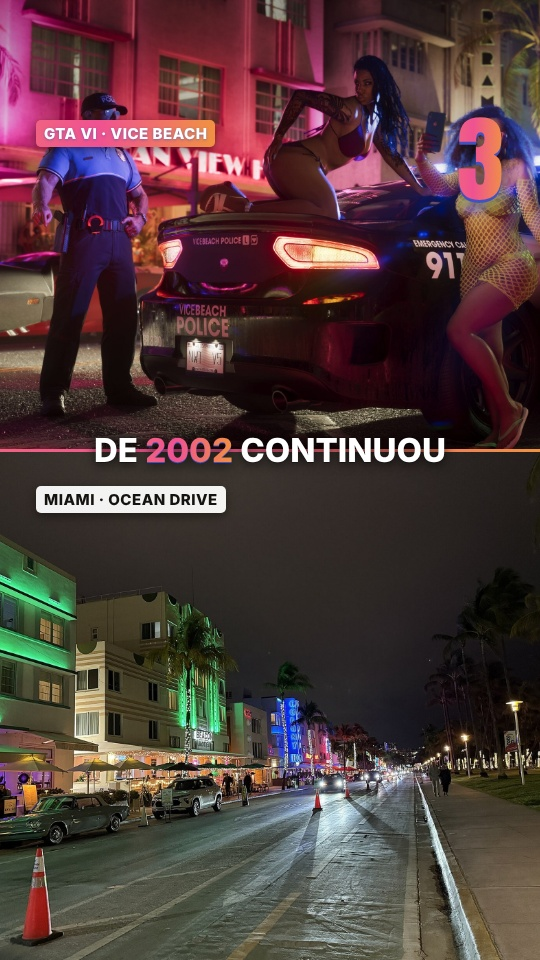
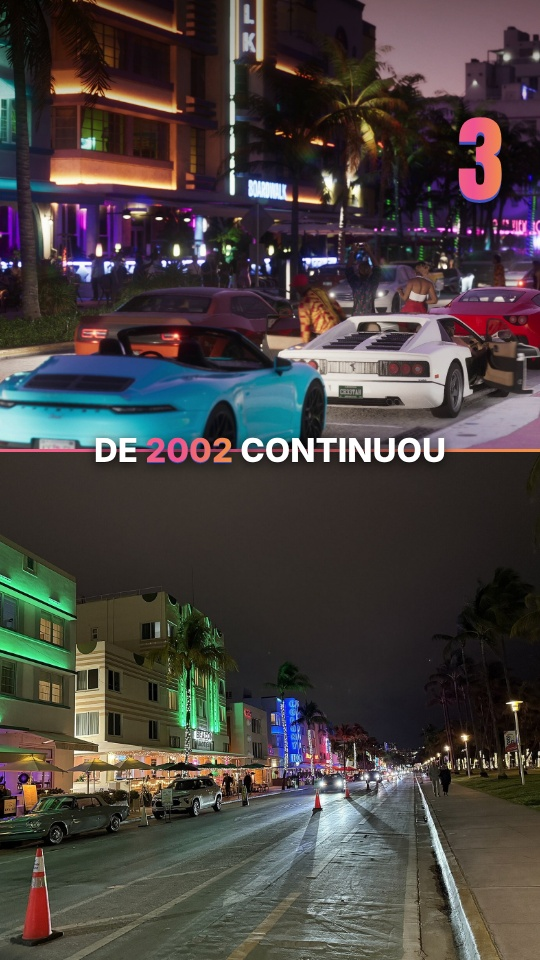
Reel Vice City REV1: luz roxa só no fundo, sem etiquetas jogo/real, Ocean Drive do trailer 1
- aplicar_roxo.py: recorte do Diego (MediaPipe) e luz roxa leve só no fundo
- telas divididas sem etiquetas (pedido do Diego); números 1-2-3 mantidos
- Ocean Drive do jogo: quadro do Trailer 1 (carros na rua), no lugar da cena com polícia
- Colony real noturno com a placa inteira; mixagem sem o swish colado ao impacto do gancho

Claude-Session: https://claude.ai/code/session_01TJN9nwAt63XnG2nEHmn6uq

diff --git a/design-system/remotion/src/reel/GtaViceCity.tsx b/design-system/remotion/src/reel/GtaViceCity.tsx
@@ -4,7 +4,8 @@
  * Pedidos do Diego (05/11/2026):
  *  - ponto turístico = "comparar": Vice City do jogo em cima, Miami de verdade embaixo;
  *  - palavra de ênfase da legenda nas cores do GTA VI (o resto em branco);
- *  - versão B: luz roxa do GTA muito leve só nas gravações do Diego (props.roxo = opacidade; 0 = versão A).
+ *  - luz roxa do GTA muito leve só nas gravações do Diego, em duas versões (quadro inteiro ou só o fundo), aplicada no
+ *    próprio vídeo do Diego por reels/<reel>/revN/aplicar_roxo.py e escolhida em props.diego. props.roxo (sobreposição CSS) fica 0.
  * Render: --public-dir=reels/gta6-vice-city/revN/public --props=reels/gta6-vice-city/revN/public/props.json
  */
 import React from "react";
@@ -41,6 +42,7 @@ export type PropsVice = {
   duracao: number;
   voz: number;
   roxo: number;
+  diego?: string;
   cenas: Cena[];
   legendas: Legenda[];
   gancho: { ini: number; fim: number; linhas: Linha[] }[];
@@ -258,7 +260,7 @@ export const GtaViceCity: React.FC<PropsVice> = (p) => {
       {/* Diego embaixo durante toda a fala (vídeo decupado, em sincronia com a voz) */}
       <Sequence durationInFrames={sq(p.duracao, fps)} layout="none">
         <AbsoluteFill style={{ top: COSTURA, height: H - COSTURA, overflow: "hidden" }}>
-          <OffthreadVideo src={staticFile("diego.mp4")} muted style={{ position: "absolute", top: ROSTO_DESLOC - COSTURA, left: 0, width: W, height: H }} />
+          <OffthreadVideo src={staticFile(p.diego ?? "diego.mp4")} muted style={{ position: "absolute", top: ROSTO_DESLOC - COSTURA, left: 0, width: W, height: H }} />
           <LuzRoxa roxo={p.roxo} />
         </AbsoluteFill>
       </Sequence>
@@ -271,7 +273,7 @@ export const GtaViceCity: React.FC<PropsVice> = (p) => {
               {c.tag_cima && <Tag t={c.tag_cima} jogo x={X0} y={240} em={0.15} />}
             </AbsoluteFill>
           )}
-          {c.tipo === "diego" && <DiegoCheio c={c} roxo={p.roxo} />}
+          {c.tipo === "diego" && <DiegoCheio c={c} roxo={p.roxo} arquivo={p.diego ?? "diego.mp4"} />}
           {c.tipo === "comparar" && <Comparar c={c} />}
           {c.transicao === "dissolve" && i > 0 && <Dissolve anterior={p.cenas[i - 1]} c={c} />}
         </Sequence>
@@ -289,13 +291,13 @@ export const GtaViceCity: React.FC<PropsVice> = (p) => {
 };
 
 /** Diego em tela cheia (plano aberto no sofá), aproximação lenta e linear (100 → 105%). */
-const DiegoCheio: React.FC<{ c: Cena; roxo: number }> = ({ c, roxo }) => {
+const DiegoCheio: React.FC<{ c: Cena; roxo: number; arquivo: string }> = ({ c, roxo, arquivo }) => {
   const f = useCurrentFrame();
   const { fps } = useVideoConfig();
   const z = interpolate(f, [0, (c.fim - c.ini) * fps], [1, 1.05]);
   return (
     <AbsoluteFill style={{ overflow: "hidden" }}>
-      <OffthreadVideo src={staticFile("diego.mp4")} muted startFrom={sq(c.ini, fps)} style={{ width: W, height: H, transform: `scale(${z})` }} />
+      <OffthreadVideo src={staticFile(arquivo)} muted startFrom={sq(c.ini, fps)} style={{ width: W, height: H, transform: `scale(${z})` }} />
       <LuzRoxa roxo={roxo} />
     </AbsoluteFill>
   );

diff --git a/reels/gta6-vice-city/rev1/aplicar_roxo.py b/reels/gta6-vice-city/rev1/aplicar_roxo.py
@@ -1,0 +1,54 @@
+"""Luz roxa do GTA, muito leve, nas gravações do Diego (pedido do Diego, 05/11/2026). Gera public/diego_fundo.mp4: efeito só no fundo (parede, quadro, sofá); o Diego fica sem efeito.
+(A versão com o efeito no quadro inteiro foi testada e descartada pelo Diego, 05/11/2026.)
+Efeito: cor #8A3CFF em soft-light a 18% + luz radial do canto superior direito em screen a 10%.
+Recorte do Diego: MediaPipe Image Segmenter (selfie_multiclass_256x256), máscara suavizada no espaço e no tempo.
+Roda de dentro de reels/gta6-vice-city/rev1, depois de preparar_cenas.py (usa public/diego.mp4)."""
+import os, subprocess, urllib.request
+import numpy as np, cv2
+import mediapipe as mp
+from mediapipe.tasks.python import vision, BaseOptions
+
+COR = np.array([0x8A, 0x3C, 0xFF], np.float32) / 255.0   # RGB
+OPAC_SOFT, OPAC_LUZ = 0.18, 0.10
+W, H = 1080, 1920
+MODELO = "build/selfie_multiclass_256x256.tflite"
+if not os.path.exists(MODELO):
+    urllib.request.urlretrieve("https://storage.googleapis.com/mediapipe-models/image_segmenter/selfie_multiclass_256x256/float32/latest/selfie_multiclass_256x256.tflite", MODELO)
+
+def soft_light(cb, cs):
+    d = np.where(cb <= 0.25, ((16 * cb - 12) * cb + 4) * cb, np.sqrt(cb))
+    return np.where(cs <= 0.5, cb - (1 - 2 * cs) * cb * (1 - cb), cb + (2 * cs - 1) * (d - cb))
+yy, xx = np.mgrid[0:H, 0:W].astype(np.float32)
+radial = np.clip(1 - np.sqrt(((xx - 0.88 * W) / (0.75 * W)) ** 2 + ((yy - 0.18 * H) / (0.60 * H)) ** 2) / 0.70, 0, 1)[..., None]
+def efeito(rgb):
+    cb = rgb.astype(np.float32) / 255.0
+    out = cb + (soft_light(cb, COR) - cb) * OPAC_SOFT
+    out = 1 - (1 - out) * (1 - COR * radial * OPAC_LUZ)
+    return out
+
+seg = vision.ImageSegmenter.create_from_options(vision.ImageSegmenterOptions(
+    base_options=BaseOptions(model_asset_path=MODELO), running_mode=vision.RunningMode.VIDEO, output_confidence_masks=True))
+fps = 30
+leitor = subprocess.Popen(["ffmpeg", "-v", "error", "-i", "public/diego.mp4", "-f", "rawvideo", "-pix_fmt", "rgb24", "-"], stdout=subprocess.PIPE)
+def gravador(saida):
+    return subprocess.Popen(["ffmpeg", "-v", "error", "-y", "-f", "rawvideo", "-pix_fmt", "rgb24", "-s", f"{W}x{H}", "-r", str(fps), "-i", "-",
+                             "-c:v", "libx264", "-crf", "16", "-preset", "medium", "-pix_fmt", "yuv420p", saida], stdin=subprocess.PIPE)
+g_fundo, g_mask = gravador("public/diego_fundo.mp4"), gravador("build/mascara_diego.mp4")
+ema, n = None, 0
+while True:
+    buf = leitor.stdout.read(W * H * 3)
+    if len(buf) < W * H * 3: break
+    rgb = np.frombuffer(buf, np.uint8).reshape(H, W, 3)
+    r = seg.segment_for_video(mp.Image(image_format=mp.ImageFormat.SRGB, data=np.ascontiguousarray(rgb)), int(n * 1000 / fps))
+    fundo = r.confidence_masks[0].numpy_view().astype(np.float32)        # classe 0 = fundo
+    pessoa = cv2.resize(1 - fundo, (W, H), interpolation=cv2.INTER_LINEAR)
+    pessoa = cv2.GaussianBlur(pessoa, (0, 0), 3)                          # borda macia (sem serrilhado)
+    ema = pessoa if ema is None else 0.6 * pessoa + 0.4 * ema             # sem tremor entre quadros
+    m = np.clip((ema - 0.15) / 0.7, 0, 1)[..., None]
+    fx = efeito(rgb)
+    base = rgb.astype(np.float32) / 255.0
+    g_fundo.stdin.write((np.clip(fx * (1 - m) + base * m, 0, 1) * 255 + 0.5).astype(np.uint8).tobytes())
+    g_mask.stdin.write((np.repeat(m, 3, axis=2) * 255).astype(np.uint8).tobytes())
+    n += 1
+for g in (g_fundo, g_mask): g.stdin.close(); g.wait()
+print(f"{n} quadros")

diff --git a/reels/gta6-vice-city/rev1/mixar.py b/reels/gta6-vice-city/rev1/mixar.py
@@ -11,7 +11,6 @@ def t(fala, pal, n=1):
 cena = {c["id"]: c for c in P["cenas"]}
 EVENTOS = [
     ("externos/PDX_impacto.wav", t("gancho", "carro") - 0.02, -4, "gancho: 'roubar um carro'"),
-    ("externos/PDX_swish.wav",   cena["sofa"]["ini"] - 0.03, -6, "clarão: Diego no sofá"),
     ("externos/PDX_impacto.wav", t("vice", "19") - 0.02, -4, "data: dia 19"),
     ("externos/PDX_swish.wav",   cena["skyline"]["ini"] - 0.03, -6, "comparar: skyline"),
     ("externos/PDX_swish.wav",   cena["wynwood"]["ini"] - 0.03, -6, "comparar 1: Wynwood"),
@@ -45,7 +44,7 @@ def lufs(f):
 I0, _ = lufs("build/mix.wav")
 ganho = -14.0 - I0
 subprocess.run(["ffmpeg","-v","error","-y","-i","build/mix.wav","-af",
-    f"volume={ganho:.2f}dB,aresample=192000,alimiter=limit=0.76:attack=1:release=60:level=disabled,aresample=48000",
+    f"volume={ganho:.2f}dB,aresample=192000,alimiter=limit=0.70:attack=1:release=60:level=disabled,aresample=48000",
     "-c:a","pcm_s24le","build/master.wav"],check=True)
 I1, TP1 = lufs("build/master.wav")
 if abs(I1 + 14) > 0.15:

diff --git a/reels/gta6-vice-city/rev1/preparar_cenas.py b/reels/gta6-vice-city/rev1/preparar_cenas.py
@@ -143,7 +143,8 @@ gancho = [{"ini": 0.0, "fim": cenas[1]["ini"], "linhas": [
     {"t": "ROUBAR", "em": A("gancho:roubar-0.04"), "tam": 200, "forte": True},
     {"t": "UM CARRO", "em": A("gancho:um-0.04"), "tam": 200, "forte": True}]}]
 
-props = {"fps": FPS, "duracao": round(cenas[-1]["fim"], 3), "voz": round(FIM_VOZ, 3), "roxo": 0,
+# vídeo do Diego com a luz roxa só no fundo (aplicar_roxo.py; versão escolhida pelo Diego, 05/11/2026)
+props = {"fps": FPS, "duracao": round(cenas[-1]["fim"], 3), "voz": round(FIM_VOZ, 3), "roxo": 0, "diego": "diego_fundo.mp4",
          "cenas": cenas, "legendas": leg, "gancho": gancho}
 json.dump(props, open("public/props.json", "w"), ensure_ascii=False, indent=1)
 for d in cenas: print(f"{d['ini']:6.2f}-{d['fim']:6.2f} {d['fim'] - d['ini']:4.2f}s {d['tipo']:9s} {d['id']}")

diff --git a/reels/gta6-vice-city/rev1/LEGENDA_POST.md b/reels/gta6-vice-city/rev1/LEGENDA_POST.md
@@ -1,0 +1,18 @@
+# Legenda do post · Reel "3 pontos turísticos da Vice City" (REV1)
+
+Rascunho para o Diego aprovar. Um CTA só (envio, o sinal que este Reel favorece). Fatos com fonte em `../ROTEIRO_E_CONTEXTO.md`, seção 3.
+
+```
+GTA 6 sai dia 19. Mas a Vice City dá pra visitar de verdade: é Miami.
+
+1. Wynwood: a arte de rua do jogo lembra muito o bairro dos murais.
+2. Kaseya Center, a Sahara Arena do jogo: no dia 18/11 o Miami Heat entra em quadra como "Vice City", com quadra e uniforme novos.
+3. Ocean Drive: no Vice City de 2002 a rua já tinha esse nome. E o Colony Hotel virou "Colon" no jogo.
+
+Manda pra quem jogou Vice City em 2002.
+
+#gta6 #vicecity #miami #wynwood #oceandrive #kaseyacenter #viagem #primeirodia
+```
+
+- "Lembra muito" e "a Sahara Arena do jogo" são comparação de fãs e imprensa; a Rockstar não publicou uma tabela "lugar do jogo = lugar real".
+- Jogo do dia 18/11: Heat × Bucks (ESPN, espn.com/nba/story/_/id/50085674).
